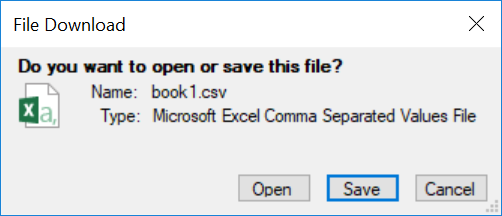
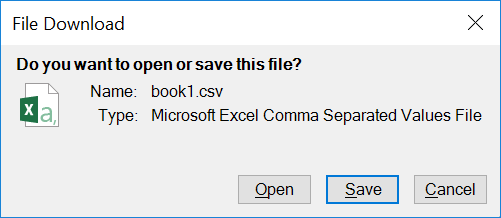
Screenshot changed.

diff --git a/svc/SHGetFileInfoExample/Program.cs b/svc/SHGetFileInfoExample/Program.cs
@@ -1,18 +1,25 @@
 using System;
 using System.Collections.Generic;
 using System.Linq;
+using System.Runtime.InteropServices;
 using System.Threading.Tasks;
 using System.Windows.Forms;
 
 namespace SHGetFileInfoExample {
     static class Program {
+        [DllImport("user32.dll", SetLastError = true)]
+        static extern bool SetProcessDPIAware();
+
         /// <summary>
         /// The main entry point for the application.
         /// </summary>
         [STAThread]
         static void Main() {
+            if (Environment.OSVersion.Version.Major >= 6)
+                SetProcessDPIAware();
+
             Application.EnableVisualStyles();
-            Application.SetCompatibleTextRenderingDefault(false);
+            Application.SetCompatibleTextRenderingDefault(true);
             Application.Run(new Form1());
         }
     }
